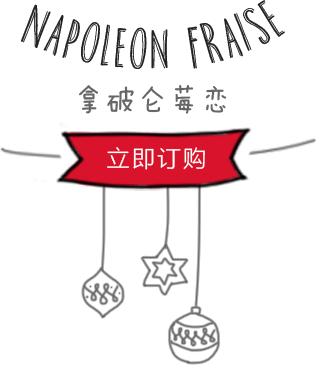
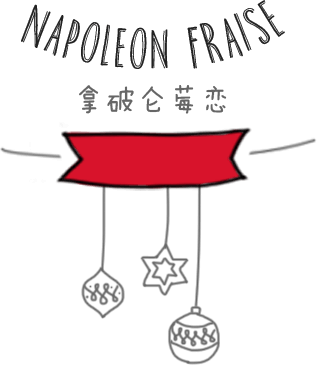
圣诞节活动修改

Changed region(s): [[0.3396, 0.3907, 0.6509, 0.4809]]

diff --git a/app/christmas/index.html b/app/christmas/index.html
@@ -32,21 +32,27 @@
             </header>
             <div id="evt_loading">0%</div>
             <div id="evt_content" style="display:none;">
-                <div class="bg2"><img src="http://edm.mcake.com/weifengwang/common/no.jpg" alt="" src-fix="bg2_png"></div>
+                <div class="bg2">
+                    <img src="http://edm.mcake.com/weifengwang/common/no.jpg" alt="" src-fix="bg2_png">
+                    <a href="javascript:;">圣诞夜蛋糕</a>
+                </div>
                 <canvas id="cris" width="291" height="275"></canvas>
                 <canvas id="candle" width="245" height="128"></canvas>
                 <div class="title"><img src="http://edm.mcake.com/weifengwang/common/no.jpg" alt="" src-fix="title_png"></div>
                 <div class="text1"><img src="http://edm.mcake.com/weifengwang/common/no.jpg" alt="" src-fix="text1_png"></div>
-                <div class="pro-num">
-                    <a href="javascript:;" class="minus"><img src="http://edm.mcake.com/weifengwang/common/no.jpg" alt="" src-fix="minus_png"></a>
-                    <input type="text" value="1个" data-min="1" data-max="20">
-                    <a href="javascript:;" class="plus"><img src="http://edm.mcake.com/weifengwang/common/no.jpg" alt="" src-fix="plus_png"></a>
-                </div>
-                <div class="pro-price"><span>￥</span>318</div>
+                <!--<div class="pro-num">-->
+                    <!--<a href="javascript:;" class="minus"><img src="http://edm.mcake.com/weifengwang/common/no.jpg" alt="" src-fix="minus_png"></a>-->
+                    <!--<input type="text" value="1个" data-min="1" data-max="20">-->
+                    <!--<a href="javascript:;" class="plus"><img src="http://edm.mcake.com/weifengwang/common/no.jpg" alt="" src-fix="plus_png"></a>-->
+                <!--</div>-->
+                <div class="pro-price"><span>￥</span>318/2磅</div>
                 <a href="javascript:;" class="buybtn"><img src="http://edm.mcake.com/weifengwang/common/no.jpg" alt="" src-fix="buybtn_png"></a>
                 <div class="ronghua"><img src="http://edm.mcake.com/weifengwang/common/no.jpg" alt="" src-fix="ronghua_png"></div>
                 <div class="i1"><img src="http://edm.mcake.com/weifengwang/common/no.jpg" alt="" src-fix="i1_png"></div>
-                <div class="cake1"><img src="http://edm.mcake.com/weifengwang/common/no.jpg" alt="" src-fix="cake1_png"></div>
+                <div class="cake1">
+                    <img src="http://edm.mcake.com/weifengwang/common/no.jpg" alt="" src-fix="cake1_png">
+                    <a href="javascript:;">鲜莓印雪</a>
+                </div>
                 <div class="fruit1"><img src="http://edm.mcake.com/weifengwang/common/no.jpg" alt="" src-fix="fruit1_png"></div>
                 <div class="word1">
                     <img src="http://edm.mcake.com/weifengwang/common/no.jpg" alt="" src-fix="word1_png">
@@ -56,7 +62,10 @@
 
                 <div class="ar1">
                     <div class="i6"><img src="http://edm.mcake.com/weifengwang/common/no.jpg" alt="" src-fix="i6_png"></div>
-                    <div class="cake2"><img src="http://edm.mcake.com/weifengwang/common/no.jpg" alt="" src-fix="cake2_png"></div>
+                    <div class="cake2">
+                        <img src="http://edm.mcake.com/weifengwang/common/no.jpg" alt="" src-fix="cake2_png">
+                        <a href="javascript:;">拿破仑莓恋</a>
+                    </div>
                 </div>
 
                 <div class="ar2">
@@ -65,14 +74,17 @@
                 </div>
                 <div class="word2">
                     <img src="http://edm.mcake.com/weifengwang/common/no.jpg" alt="" src-fix="word2_png">
-                    <a href="javascript:;">立即订购</a>
+                    <a href="javascript:;">敬请期待</a>
                 </div>
                 <div class="i3"><img src="http://edm.mcake.com/weifengwang/common/no.jpg" alt="" src-fix="i3_png"></div>
                 <div class="photo1"><img src="http://edm.mcake.com/weifengwang/common/no.jpg" alt="" src-fix="photo1_png"></div>
-                <div class="cake3"><img src="http://edm.mcake.com/weifengwang/common/no.jpg" alt="" src-fix="cake3_png"></div>
+                <div class="cake3">
+                    <img src="http://edm.mcake.com/weifengwang/common/no.jpg" alt="" src-fix="cake3_png">
+                    <a href="javascript:;">白色恋人</a>
+                </div>
                 <div class="word3">
                     <img src="http://edm.mcake.com/weifengwang/common/no.jpg" alt="" src-fix="word3_png">
-                    <a href="javascript:;">立即订购</a>
+                    <a href="javascript:;">敬请期待</a>
                 </div>
 
                 <div class="ar3">
@@ -83,11 +95,14 @@
 
                 <div class="ar4">
                     <div class="i9"><img src="http://edm.mcake.com/weifengwang/common/no.jpg" alt="" src-fix="i9_png"></div>
-                    <div class="cake4"><img src="http://edm.mcake.com/weifengwang/common/no.jpg" alt="" src-fix="cake4_png"></div>
+                    <div class="cake4">
+                        <img src="http://edm.mcake.com/weifengwang/common/no.jpg" alt="" src-fix="cake4_png">
+                        <a href="javascript:;">莓果青柠</a>
+                    </div>
                 </div>
                 <div class="word4">
                     <img src="http://edm.mcake.com/weifengwang/common/no.jpg" alt="" src-fix="word4_png">
-                    <a href="javascript:;">立即订购</a>
+                    <a href="javascript:;">敬请期待</a>
                 </div>
 
                 <div class="i5"><img src="http://edm.mcake.com/weifengwang/common/no.jpg" alt="" src-fix="i5_png"></div>
@@ -95,10 +110,13 @@
                     <div class="i10"><img src="http://edm.mcake.com/weifengwang/common/no.jpg" alt="" src-fix="i10_png"></div>
                     <div class="photo2"><img src="http://edm.mcake.com/weifengwang/common/no.jpg" alt="" src-fix="photo2_png"></div>
                 </div>
-                <div class="cake5"><img src="http://edm.mcake.com/weifengwang/common/no.jpg" alt="" src-fix="cake5_png"></div>
+                <div class="cake5">
+                    <img src="http://edm.mcake.com/weifengwang/common/no.jpg" alt="" src-fix="cake5_png">
+                    <a href="javascript:;">莓红1893</a>
+                </div>
                 <div class="word5">
                     <img src="http://edm.mcake.com/weifengwang/common/no.jpg" alt="" src-fix="word5_png">
-                    <a href="javascript:;">立即订购</a>
+                    <a href="javascript:;">敬请期待</a>
                 </div>
                 <div class="fruit4"><img src="http://edm.mcake.com/weifengwang/common/no.jpg" alt="" src-fix="fruit4_png"></div>
                 <div class="rule">

diff --git a/app/christmas/styles/index.scss b/app/christmas/styles/index.scss
@@ -17,56 +17,76 @@ $ar5top:4204;
   a{display:block; position:absolute;}
   div{position:absolute;}
   img{width:100%;}
-  .bg2{width:px2rem(750);}
-  .title{width:px2rem(598); left:px2rem(53); top:px2rem(-85); display:none;}
+  .bg2{width:px2rem(750);
+    a{text-indent: -99999px; width:px2rem(590); height:px2rem(414); top:px2rem(582); left:px2rem(95)}
+  }
+  .title{width:px2rem(598); left:px2rem(53); top:px2rem(-35); display:none;}
   .text1{width:px2rem(371); left:px2rem(189); top:px2rem(1050);}
   .pro-num{left:px2rem(336); top:px2rem(1135); font-size:0;
-    a{width:px2rem(93); display:inline-block; position:static;}
+    a{width:px2rem(93); display:inline-block; position:static; text-indent:0;}
     input{display:inline-block; width:px2rem(87); border:none; background:transparent; text-align:center; color:#bf0100; font-size:px2rem(40); padding:0;}
   }
-  .pro-price{top:px2rem(1130); left:px2rem(141); color:#bf0100; font-size:px2rem(80); line-height:px2rem(80);
+  .pro-price{top:px2rem(1130); left:0; color:#bf0100; font-size:px2rem(60); line-height:px2rem(80); width:100%; text-align:center;
     span{font-size:px2rem(40);}
   }
+
+  @for $i from 1 through 5{
+    .cake#{$i} a {text-indent: -99999px;}
+    .word#{$i} a {color:#ffffff; font-size:px2rem(24); line-height:px2rem(24);}
+  }
+
+
+
   .buybtn{width:px2rem(468); top:px2rem(1230); left:px2rem(141);}
   .ronghua{width:px2rem(750); top:px2rem(1303);}
   .i1{width:px2rem(231); left:px2rem(302); top:px2rem(1531);}
-  .cake1{width:px2rem(412); left:px2rem(43); top:px2rem(1562);}
+  .cake1{width:px2rem(412); left:px2rem(43); top:px2rem(1562);
+    a{width:100%; height:100%; top:0; left:0;}
+  }
   .fruit1{width:px2rem(259); left:px2rem(442); top:px2rem(1684);}
   .word1{width:px2rem(267); left:px2rem(101); top:px2rem(1929);
-    a{width:px2rem(220); height:px2rem(68); top:px2rem(149); left:px2rem(25); text-indent:-99999px;}
+    a{width:px2rem(220); height:px2rem(68); top:px2rem(149); left:px2rem(25); padding:px2rem(25) 0 0 px2rem(50);}
   }
   .i2{width:px2rem(83); left:px2rem(7); top:px2rem(1984);}
-  .cake2{width:px2rem(404); left:px2rem(344-$ar1left); top:px2rem(2107-$ar1top);}
+  .cake2{width:px2rem(404); left:px2rem(344-$ar1left); top:px2rem(2107-$ar1top);
+    a{width:100%; height:100%; top:0; left:0;}
+  }
   .i6{width:px2rem(189); left:px2rem(538-$ar1left); top:px2rem(2031-$ar1top);}
   .ar1{width:px2rem(404); left:px2rem($ar1left); top:px2rem($ar1top);}
   .i7{width:px2rem(80); left:px2rem(149-$ar2left); top:px2rem(2314-$ar2top);}
   .fruit2{width:px2rem(214); left:px2rem(178-$ar2left); top:px2rem(2330-$ar2top);}
   .ar2{width:px2rem(214); left:px2rem($ar2left); top:px2rem($ar2top);}
   .word2{width:px2rem(318); left:px2rem(393); top:px2rem(2481);
-    a{width:px2rem(220); height:px2rem(75); top:px2rem(125); left:px2rem(40); text-indent:-99999px;}
+    a{width:px2rem(220); height:px2rem(75); top:px2rem(125); left:px2rem(40); padding:px2rem(25) 0 0 px2rem(65);}
   }
   .i3{width:px2rem(48); left:px2rem(429); top:px2rem(2886);}
   .photo1{width:px2rem(399); left:px2rem(30); top:px2rem(2729);}
-  .cake3{width:px2rem(352); left:px2rem(288); top:px2rem(2959);}
+  .cake3{width:px2rem(352); left:px2rem(288); top:px2rem(2959);
+    a{top:0; left:0; width:px2rem(320); height:px2rem(300);}
+  }
   .word3{width:px2rem(227); left:px2rem(100); top:px2rem(3184);
-    a{width:px2rem(220); height:px2rem(90); top:px2rem(80); left:px2rem(20); text-indent:-99999px;}
+    a{width:px2rem(220); height:px2rem(90); top:px2rem(80); left:px2rem(20); padding:px2rem(43) 0 0 px2rem(60);}
   }
   .i8{width:px2rem(200); left:px2rem(412-$ar3left); top:px2rem(3386-$ar3top);}
   .fruit3{width:px2rem(245); left:px2rem(467-$ar3left); top:px2rem(3432-$ar3top);}
   .ar3{width:px2rem(245); left:px2rem($ar3left); top:px2rem($ar3top);}
   .i4{width:px2rem(103); left:px2rem(152); top:px2rem(3554);}
   .i9{width:px2rem(108); left:px2rem(142-$ar4left); top:px2rem(3805-$ar4top);}
-  .cake4{width:px2rem(627); left:px2rem(123-$ar4left); top:px2rem(3489-$ar4top);}
+  .cake4{width:px2rem(627); left:px2rem(123-$ar4left); top:px2rem(3489-$ar4top);
+    a{top:0; left:0; width:px2rem(440); height:px2rem(430);}
+  }
   .ar4{width:px2rem(627); left:px2rem($ar4left); top:px2rem($ar4top);}
   .word4{width:px2rem(307); left:px2rem(356); top:px2rem(3806);
-    a{width:px2rem(220); height:px2rem(90); top:px2rem(140); left:px2rem(90); text-indent:-99999px;}
+    a{width:px2rem(220); height:px2rem(90); top:px2rem(140); left:px2rem(90); padding:px2rem(40) 0 0 px2rem(66);}
   }
   .i10{width:px2rem(146); left:px2rem(525-$ar5left); top:px2rem(4196-$ar5top);}
   .photo2{width:px2rem(401); left:px2rem(227-$ar5left); top:px2rem(4204-$ar5top);}
   .ar5{width:px2rem(401); left:px2rem($ar5left); top:px2rem($ar5top);}
-  .cake5{width:px2rem(355); left:px2rem(184); top:px2rem(4088);}
+  .cake5{width:px2rem(355); left:px2rem(184); top:px2rem(4088);
+    a{width:px2rem(250); height:px2rem(200); top:px2rem(55); left:px2rem(15);}
+  }
   .word5{width:px2rem(229); left:px2rem(9); top:px2rem(4315);
-    a{width:px2rem(220); height:px2rem(90); top:px2rem(90); left:px2rem(20); text-indent:-99999px;}
+    a{width:px2rem(220); height:px2rem(90); top:px2rem(90); left:px2rem(20); padding:px2rem(40) 0 0 px2rem(60);}
   }
   .i5{width:px2rem(499); left:px2rem(251); top:px2rem(4497);}
   .fruit4{width:px2rem(235); left:px2rem(462); top:px2rem(4642); z-index:2;}

diff --git a/app/christmas/styles/index.css b/app/christmas/styles/index.css
@@ -12,10 +12,16 @@
     width: 100%; }
   #evt_content .bg2 {
     width: 10rem; }
+    #evt_content .bg2 a {
+      text-indent: -99999px;
+      width: 7.86667rem;
+      height: 5.52rem;
+      top: 7.76rem;
+      left: 1.26667rem; }
   #evt_content .title {
     width: 7.97333rem;
     left: 0.70667rem;
-    top: -1.13333rem;
+    top: -0.46667rem;
     display: none; }
   #evt_content .text1 {
     width: 4.94667rem;
@@ -28,7 +34,8 @@
     #evt_content .pro-num a {
       width: 1.24rem;
       display: inline-block;
-      position: static; }
+      position: static;
+      text-indent: 0; }
     #evt_content .pro-num input {
       display: inline-block;
       width: 1.16rem;
@@ -40,12 +47,44 @@
       padding: 0; }
   #evt_content .pro-price {
     top: 15.06667rem;
-    left: 1.88rem;
+    left: 0;
     color: #bf0100;
-    font-size: 1.06667rem;
-    line-height: 1.06667rem; }
+    font-size: 0.8rem;
+    line-height: 1.06667rem;
+    width: 100%;
+    text-align: center; }
     #evt_content .pro-price span {
       font-size: 0.53333rem; }
+  #evt_content .cake1 a {
+    text-indent: -99999px; }
+  #evt_content .word1 a {
+    color: #ffffff;
+    font-size: 0.32rem;
+    line-height: 0.32rem; }
+  #evt_content .cake2 a {
+    text-indent: -99999px; }
+  #evt_content .word2 a {
+    color: #ffffff;
+    font-size: 0.32rem;
+    line-height: 0.32rem; }
+  #evt_content .cake3 a {
+    text-indent: -99999px; }
+  #evt_content .word3 a {
+    color: #ffffff;
+    font-size: 0.32rem;
+    line-height: 0.32rem; }
+  #evt_content .cake4 a {
+    text-indent: -99999px; }
+  #evt_content .word4 a {
+    color: #ffffff;
+    font-size: 0.32rem;
+    line-height: 0.32rem; }
+  #evt_content .cake5 a {
+    text-indent: -99999px; }
+  #evt_content .word5 a {
+    color: #ffffff;
+    font-size: 0.32rem;
+    line-height: 0.32rem; }
   #evt_content .buybtn {
     width: 6.24rem;
     top: 16.4rem;
@@ -61,6 +100,11 @@
     width: 5.49333rem;
     left: 0.57333rem;
     top: 20.82667rem; }
+    #evt_content .cake1 a {
+      width: 100%;
+      height: 100%;
+      top: 0;
+      left: 0; }
   #evt_content .fruit1 {
     width: 3.45333rem;
     left: 5.89333rem;
@@ -74,7 +118,7 @@
       height: 0.90667rem;
       top: 1.98667rem;
       left: 0.33333rem;
-      text-indent: -99999px; }
+      padding: 0.33333rem 0 0 0.66667rem; }
   #evt_content .i2 {
     width: 1.10667rem;
     left: 0.09333rem;
@@ -83,6 +127,11 @@
     width: 5.38667rem;
     left: 0rem;
     top: -0.84rem; }
+    #evt_content .cake2 a {
+      width: 100%;
+      height: 100%;
+      top: 0;
+      left: 0; }
   #evt_content .i6 {
     width: 2.52rem;
     left: 2.58667rem;
@@ -112,7 +161,7 @@
       height: 1rem;
       top: 1.66667rem;
       left: 0.53333rem;
-      text-indent: -99999px; }
+      padding: 0.33333rem 0 0 0.86667rem; }
   #evt_content .i3 {
     width: 0.64rem;
     left: 5.72rem;
@@ -125,6 +174,11 @@
     width: 4.69333rem;
     left: 3.84rem;
     top: 39.45333rem; }
+    #evt_content .cake3 a {
+      top: 0;
+      left: 0;
+      width: 4.26667rem;
+      height: 4rem; }
   #evt_content .word3 {
     width: 3.02667rem;
     left: 1.33333rem;
@@ -134,7 +188,7 @@
       height: 1.2rem;
       top: 1.06667rem;
       left: 0.26667rem;
-      text-indent: -99999px; }
+      padding: 0.57333rem 0 0 0.8rem; }
   #evt_content .i8 {
     width: 2.66667rem;
     left: -0.73333rem;
@@ -159,6 +213,11 @@
     width: 8.36rem;
     left: 0rem;
     top: 0rem; }
+    #evt_content .cake4 a {
+      top: 0;
+      left: 0;
+      width: 5.86667rem;
+      height: 5.73333rem; }
   #evt_content .ar4 {
     width: 8.36rem;
     left: 1.64rem;
@@ -172,7 +231,7 @@
       height: 1.2rem;
       top: 1.86667rem;
       left: 1.2rem;
-      text-indent: -99999px; }
+      padding: 0.53333rem 0 0 0.88rem; }
   #evt_content .i10 {
     width: 1.94667rem;
     left: 3.97333rem;
@@ -189,6 +248,11 @@
     width: 4.73333rem;
     left: 2.45333rem;
     top: 54.50667rem; }
+    #evt_content .cake5 a {
+      width: 3.33333rem;
+      height: 2.66667rem;
+      top: 0.73333rem;
+      left: 0.2rem; }
   #evt_content .word5 {
     width: 3.05333rem;
     left: 0.12rem;
@@ -198,7 +262,7 @@
       height: 1.2rem;
       top: 1.2rem;
       left: 0.26667rem;
-      text-indent: -99999px; }
+      padding: 0.53333rem 0 0 0.8rem; }
   #evt_content .i5 {
     width: 6.65333rem;
     left: 3.34667rem;

diff --git a/app/commoncss/wap-normalize.css b/app/commoncss/wap-normalize.css
@@ -20,5 +20,6 @@ html,body{margin:0; padding:0;}
 #evt_container header a{display:block; width:1rem; height:1rem; position:absolute; top:50%; margin-top:-0.5rem; z-index:10;}
[2 lines of base64/hex data omitted]
-#evt_container header .title{padding-top:0.24rem; color:#767676;}
+#evt_container header .title{padding-top:0.24rem; color:#767676; line-height:0.45rem;}
+#evt_container header .title span{font-size:0.4rem;}
 #evt_content{position:relative;}

diff --git a/gulpfile.js b/gulpfile.js
@@ -62,7 +62,7 @@ gulp.task('server', function() {
 			host: getIP(),
 			directoryListing: {enable:true, path: buildConfig.server.path},
 			livereload: false,
-			open: true,
+			open: '/'+ projectName +'/index.html',
 			port: buildConfig.server.port || 8001
 		}));
 });
